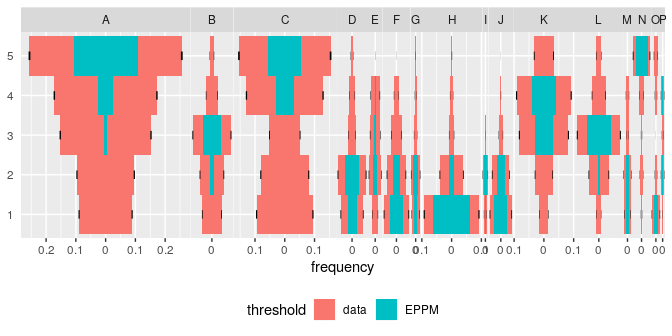
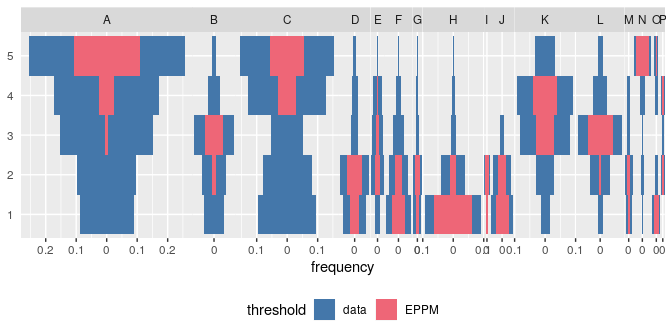
Update readme

diff --git a/README.md b/README.md
@@ -40,8 +40,8 @@ Usage
     -   `FrequencyMatrix` represents relative frequency data.
 -   Logical matrix:
     -   `IncidenceMatrix` represents presence/absence data.
+-   Other numeric matrix:
     -   `OccurrenceMatrix` represents a co-occurence matrix.
--   Numeric matrix:
     -   `SimilarityMatrix` represents a (dis)similarity matrix.
 
 It assumes that you keep your data tidy: each variable (type/taxa) must be saved in its own column and each observation (sample/case) must be saved in its own row.
@@ -83,35 +83,88 @@ C <- as(A1, "IncidenceMatrix")
 D <- as(A1, "OccurrenceMatrix")
 ```
 
+Several types of graphs are available in `tabula` which uses `ggplot2` for plotting informations. This makes it easy to customize diagramms (e.g. using themes and scales).
+
+Spot matrix (easier to read than a heatmap [1]) allows direct examination of data (above/below some threshold):
+
+``` r
+# Plot frequencies with the column means as a threshold
+ceram_counts <- as(mississippi, "CountMatrix")
+plotSpot(ceram_counts, threshold = mean) +
+  ggplot2::labs(size = "Frequency", colour = "Mean") +
+  khroma::scale_colour_vibrant()
+```
+
+<img src="man/figures/README-plot-freq-1.png" style="display: block; margin: auto;" />
+
+``` r
+# Plot co-occurence of types
+# (i.e. how many times (percent) each pairs of taxa occur together 
+# in at least one sample.)
+ceram_occ <- as(mississippi, "OccurrenceMatrix")
+plotSpot(ceram_occ) +
+  ggplot2::labs(size = "", colour = "Co-occurrence") +
+  ggplot2::theme(legend.box = "horizontal") +
+  khroma::scale_colour_YlOrBr()
+```
+
+<img src="man/figures/README-plot-occ-1.png" style="display: block; margin: auto;" />
+
+Bertin of Ford (battleship curve) diagramms can be plotted, with statistic threshold (B. Desachy's [*sériographe*](https://doi.org/10.3406/pica.2004.2396)). The positive difference from the column mean percentage (in french "écart positif au pourcentage moyen", EPPM) represents a deviation from the situation of statistical independence. EPPM is a usefull graphical tool to explore significance of relationship between rows and columns related to seriation.
+
+``` r
+counts <- as(compiegne, "CountMatrix")
+plotBar(counts, EPPM = TRUE) +
+  khroma::scale_fill_bright()
+```
+
+<img src="man/figures/README-seriograph-1.png" style="display: block; margin: auto;" />
+
 ### Analysis
 
 *Diversity* can be measured according to several indices (sometimes refered to as indices of *heterogeneity*):
 
 ``` r
-counts <- as(compiegne, "CountMatrix")
-diversity(counts, method = c("shannon", "brillouin", "simpson", "mcintosh", "berger"), simplify = TRUE)
-#>    shannon brillouin   simpson  mcintosh    berger
-#> 5 1.311123  1.309565 0.3648338 0.3983970 0.5117318
-#> 4 1.838332  1.836827 0.2246218 0.5287042 0.3447486
-#> 3 2.037649  2.036142 0.1718061 0.5883879 0.3049316
-#> 2 2.468108  2.466236 0.1038536 0.6812886 0.1927510
-#> 1 2.297495  2.295707 0.1267866 0.6472862 0.1893524
+H <- diversity(ceram_counts, method = c("shannon", "brillouin", "simpson", 
+                                        "mcintosh", "berger"), simplify = TRUE)
+head(H)
+#>           shannon brillouin   simpson  mcintosh    berger
+#> 10-P-1  1.2027955 1.1572676 0.3166495 0.4714431 0.4052288
+#> 11-N-9  0.7646565 0.7541207 0.5537760 0.2650711 0.6965699
+#> 11-N-1  0.9293974 0.9192403 0.5047209 0.2975381 0.6638526
+#> 11-O-10 0.8228576 0.8085445 0.5072514 0.2990830 0.6332288
+#> 11-N-4  0.7901428 0.7823396 0.5018826 0.2997089 0.6034755
+#> 13-N-5  0.9998430 0.9442803 0.3823434 0.4229570 0.4430380
 ```
 
 Note that `berger`, `mcintosh` and `simpson` methods return a *dominance* index, not the reciprocal form usually adopted, so that an increase in the value of the index accompanies a decrease in diversity.
 
-*β*-diversity can be measured by addressing *similarity* between pairs of sites:
+Corresponding *evenness* (i.e. a measure of how evenly individuals are distributed across the sample) can also be computed.
+
+The several methods can be used to acertain the degree of *turnover* in taxa composition along a gradient (*β*-diversity) on qualitative (presence/absence) data. It assumes that the order of the matrix rows (from 1 to *n*) follows the progression along the gradient/transect.
+
+*β*-diversity can also be measured by addressing *similarity* between pairs of sites:
 
 ``` r
-similarity(counts, method = "brainerd")
-#> An object of class "SimilarityMatrix"
-#>           5        4        3         2         1
-#> 5 200.00000 147.0860 104.6193  95.83558  92.00659
-#> 4 147.08600 200.0000 152.4492 124.83757 109.87089
-#> 3 104.61927 152.4492 200.0000 131.20713 104.81193
-#> 2  95.83558 124.8376 131.2071 200.00000 162.68247
-#> 1  92.00659 109.8709 104.8119 162.68247 200.00000
+# Brainerd-Robinson index
+S <- similarity(ceram_counts, method = "brainerd")
+
+# Plot the similarity matrix
+plotSpot(S) +
+  ggplot2::labs(size = "Similarity", colour = "Similarity") +
+  khroma::scale_colour_YlOrBr()
 ```
+
+<img src="man/figures/README-similarity-brainerd-1.png" style="display: block; margin: auto;" />
+
+Ranks *vs* abundance plot can be used for abundance models (model fitting will be implemented in a futur release):
+
+``` r
+plotRank(counts, log = "xy") +
+  ggplot2::theme_bw()
+```
+
+<img src="man/figures/README-plot-rank-1.png" style="display: block; margin: auto;" />
 
 ### Seriation
 
@@ -135,30 +188,24 @@ incidence2 <- permute(incidence, indices)
 
 ``` r
 # Plot matrix
-library(ggplot2)
 plotMatrix(incidence) + 
-  labs(title = "Original matrix") +
-  scale_fill_manual(values = c("TRUE" = "black", "FALSE" = "white"))
+  ggplot2::labs(title = "Original matrix") +
+  ggplot2::scale_fill_manual(values = c("TRUE" = "black", "FALSE" = "white"))
 plotMatrix(incidence2) + 
-  labs(title = "Rearranged matrix") +
-  scale_fill_manual(values = c("TRUE" = "black", "FALSE" = "white"))
+  ggplot2::labs(title = "Rearranged matrix") +
+  ggplot2::scale_fill_manual(values = c("TRUE" = "black", "FALSE" = "white"))
 ```
 
-![](man/figures/README-permute-incidence-plots-1.png)
-
-### Visualization
-
-`tabula` makes an extensive use of `ggplot2` for plotting informations. This makes it easy to customize diagramms (e.g. using themes and scales).
-
-Bertin of Ford (battleship curve) diagramms can be plotted, with statistic threshold ([B. Desachy's *sériographe*](https://doi.org/10.3406/pica.2004.2396)). The positive difference from the column mean percentage (in french "écart positif au pourcentage moyen", EPPM) represents a deviation from the situation of statistical independence. EPPM is a usefull graphical tool to explore significance of relationship between rows and columns related to seriation.
-
-``` r
-plotBar(counts, EPPM = TRUE)
-```
-
-![](man/figures/README-seriograph-1.png)
+![](man/figures/README-permute-incidence-1.png)![](man/figures/README-permute-incidence-2.png)
 
 Contributing
 ------------
 
 Please note that the `tabula` project is released with a [Contributor Code of Conduct](CODE_OF_CONDUCT.md). By contributing to this project, you agree to abide by its terms.
+
+Acknowledgement
+---------------
+
+This work received a state financial support managed by the Agence Nationale de la Recherche (France) throught the program *Investissements d'avenir* (ref. ANR-10-LABX-52).
+
+[1] Adapted from Dan Gopstein's original [spot matrix](https://dgopstein.github.io/articles/spot-matrix/).
